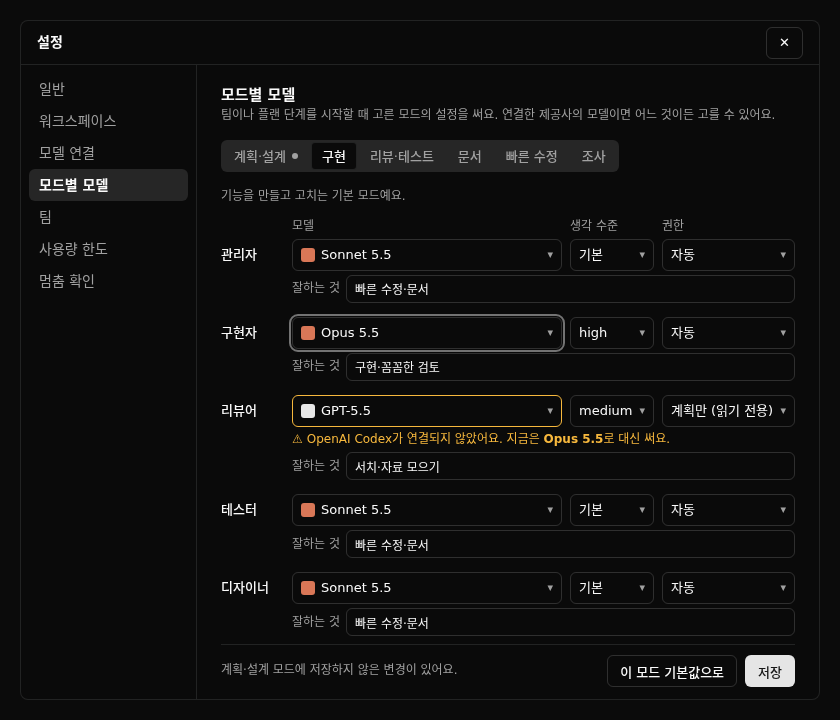
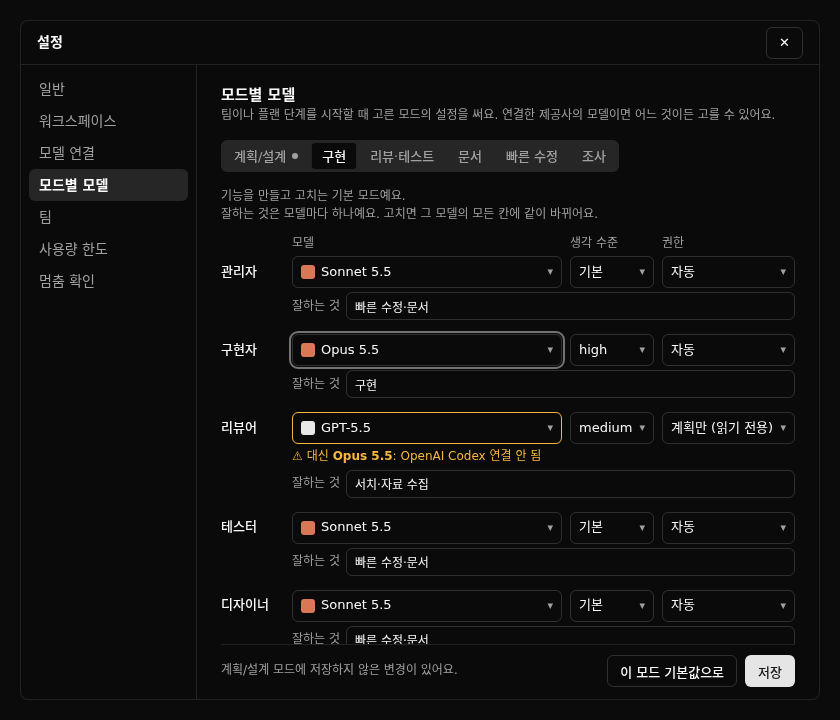
docs(design): align mode profile spec with the #751 server API (#748)

diff --git a/docs/design/mode-profiles/mockup.html b/docs/design/mode-profiles/mockup.html
@@ -94,13 +94,13 @@
 </div>
 <script>
 const P = new URLSearchParams(location.search);
-const MODES = [['plan','계획·설계'],['build','구현'],['review','리뷰·테스트'],['docs','문서'],['quick','빠른 수정'],['research','조사']];
+const MODES = [['plan','계획/설계'],['build','구현'],['review','리뷰·테스트'],['docs','문서'],['quick','빠른 수정'],['research','조사']];
 const ROLES = [['lead','관리자'],['impl','구현자'],['review','리뷰어'],['test','테스터'],['design','디자이너'],['docs','문서화']];
-const M = { fable:['claude','Fable 5.2','복잡한 작업·설계'], opus:['claude','Opus 5.5','구현·꼼꼼한 검토'], sonnet:['claude','Sonnet 5.5','빠른 수정·문서'],
-  gpt:['codex','GPT-5.5','서치·자료 모으기'], flash:['gemini','Gemini 3.8 Flash','빠른 확인·긴 문맥'] };
+const M = { fable:['claude','Fable 5.2','복잡한 작업'], opus:['claude','Opus 5.5','구현'], sonnet:['claude','Sonnet 5.5','빠른 수정·문서'],
+  gpt:['codex','GPT-5.5','서치·자료 수집'], flash:['gemini','Gemini 3.8 Flash','긴 문맥'] };
 const GRID = {
   build:    { lead:['sonnet','기본','자동'], impl:['opus','high','자동'], review:['gpt','medium','계획만 (읽기 전용)', 'warn'], test:['sonnet','기본','자동'], design:['sonnet','기본','자동'], docs:['sonnet','low','자동'] },
-  research: { lead:['gpt','medium','자동'], impl:['gpt','high','계획만 (읽기 전용)'], review:['opus','기본','계획만 (읽기 전용)'], test:['sonnet','기본','자동'], design:['sonnet','기본','자동'], docs:['sonnet','low','자동', null, '자료 정리·요약'] },
+  research: { lead:['gpt','medium','자동'], impl:['gpt','high','계획만 (읽기 전용)'], review:['opus','기본','계획만 (읽기 전용)'], test:['sonnet','기본','자동'], design:['sonnet','기본','자동'], docs:['sonnet','low','자동'] },
 };
 const mode = P.get('mode') || 'build';
 const g = GRID[mode];
@@ -110,7 +110,7 @@ body.innerHTML = `
   <div class="tabs" role="tablist" aria-label="모드">${MODES.map(([id,l]) =>
     `<button type="button" role="tab" class="tab" aria-selected="${id===mode}" tabindex="${id===mode?0:-1}">${l}${id==='plan'?'<span class="dot" aria-hidden="true"></span><span class="sr">(바뀜)</span>':''}</button>`).join('')}</div>
   <div role="tabpanel" aria-label="${MODES.find(m=>m[0]===mode)[1]}">
-    <p class="hint" style="margin-bottom:12px">${mode==='research'?'웹 서치와 자료 모으기에 맞춘 모드예요.':'기능을 만들고 고치는 기본 모드예요.'}</p>
+    <p class="hint" style="margin-bottom:12px">${mode==='research'?'웹 서치와 자료 모으기에 맞춘 모드예요.':'기능을 만들고 고치는 기본 모드예요.'}<br>잘하는 것은 모델마다 하나예요. 고치면 그 모델의 모든 칸에 같이 바뀌어요.</p>
     <div class="grid">
       <span></span><span class="colhead">모델</span><span class="colhead">생각 수준</span><span class="colhead">권한</span>
       ${ROLES.map(([rid,rl]) => { const [mk,eff,perm,warn,hint] = g[rid]; const [pv,label,strength] = M[mk];
@@ -121,12 +121,12 @@ body.innerHTML = `
         <div class="cell"><span class="lab">생각 수준</span><div class="sel"><span>${eff}</span></div></div>
         <div class="cell"><span class="lab">권한</span><div class="sel"><span>${perm}</span></div></div>
         <div class="sub">
-          ${warn?`<p class="note warn"><span aria-hidden="true">⚠</span><span>OpenAI Codex가 연결되지 않았어요. 지금은 <b>Opus 5.5</b>로 대신 써요.</span></p>`:''}
+          ${warn?`<p class="note warn"><span aria-hidden="true">⚠</span><span>대신 <b>Opus 5.5</b>: OpenAI Codex 연결 안 됨</span></p>`:''}
           <div class="strength"><label>잘하는 것</label><input value="${hint||strength}">${hint?'<span class="edited">직접 씀</span>':''}</div>
         </div></fieldset>`; }).join('')}
     </div>
   </div>
-  <div class="foot"><p class="note status" role="status">${mode==='research'?'':'계획·설계 모드에 저장하지 않은 변경이 있어요.'}</p>
+  <div class="foot"><p class="note status" role="status">${mode==='research'?'':'계획/설계 모드에 저장하지 않은 변경이 있어요.'}</p>
     <button class="btn">이 모드 기본값으로</button><button class="btn primary">저장</button></div>`;
 document.querySelector('[aria-selected="true"]').scrollIntoView({ block: 'nearest', inline: 'nearest', container: 'nearest' });
 </script>
